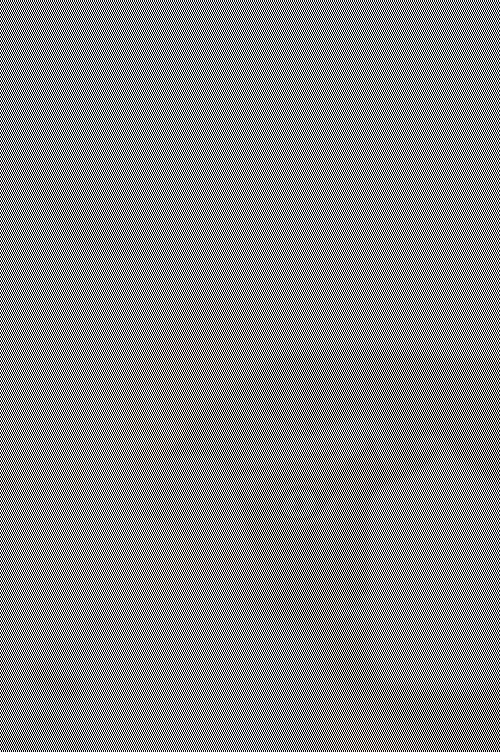
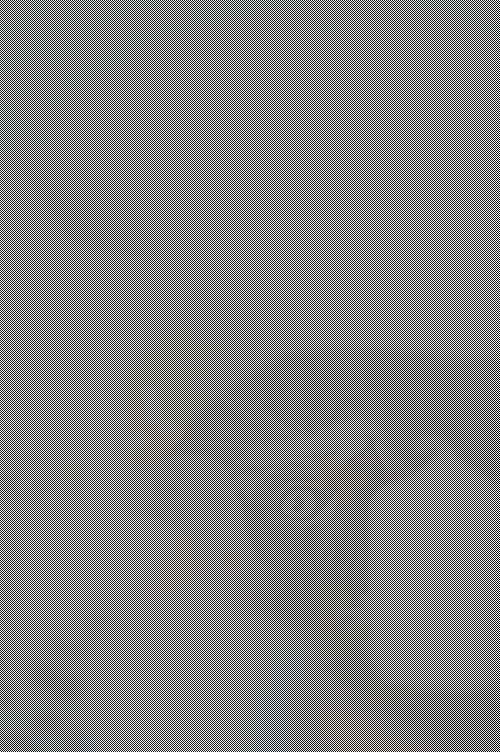
use squares

diff --git a/main.py b/main.py
@@ -13,6 +13,7 @@ img = Image.new("RGB", source.size)
 pix = img.load()
 for i in range(source.size[0]):
     for j in range(source.size[1]):
-        if (i // max(1, source.size[0] // (1 << 8)) + j // max(1, source.size[1] // (1 << 8))) % 2: # resolution of no more than 1<<8
+        scale = max(1, min(source.size) // (1 << 8))
+        if (i // scale + j // scale) % 2: # resolution of no more than 1<<8
             pix[i, j] = (0xFF,) * 3
 Image.blend(source, img.convert("RGBA"), .9).save(path.join(path.dirname(args.file), "hidden_" + path.basename(args.file)), "PNG")
